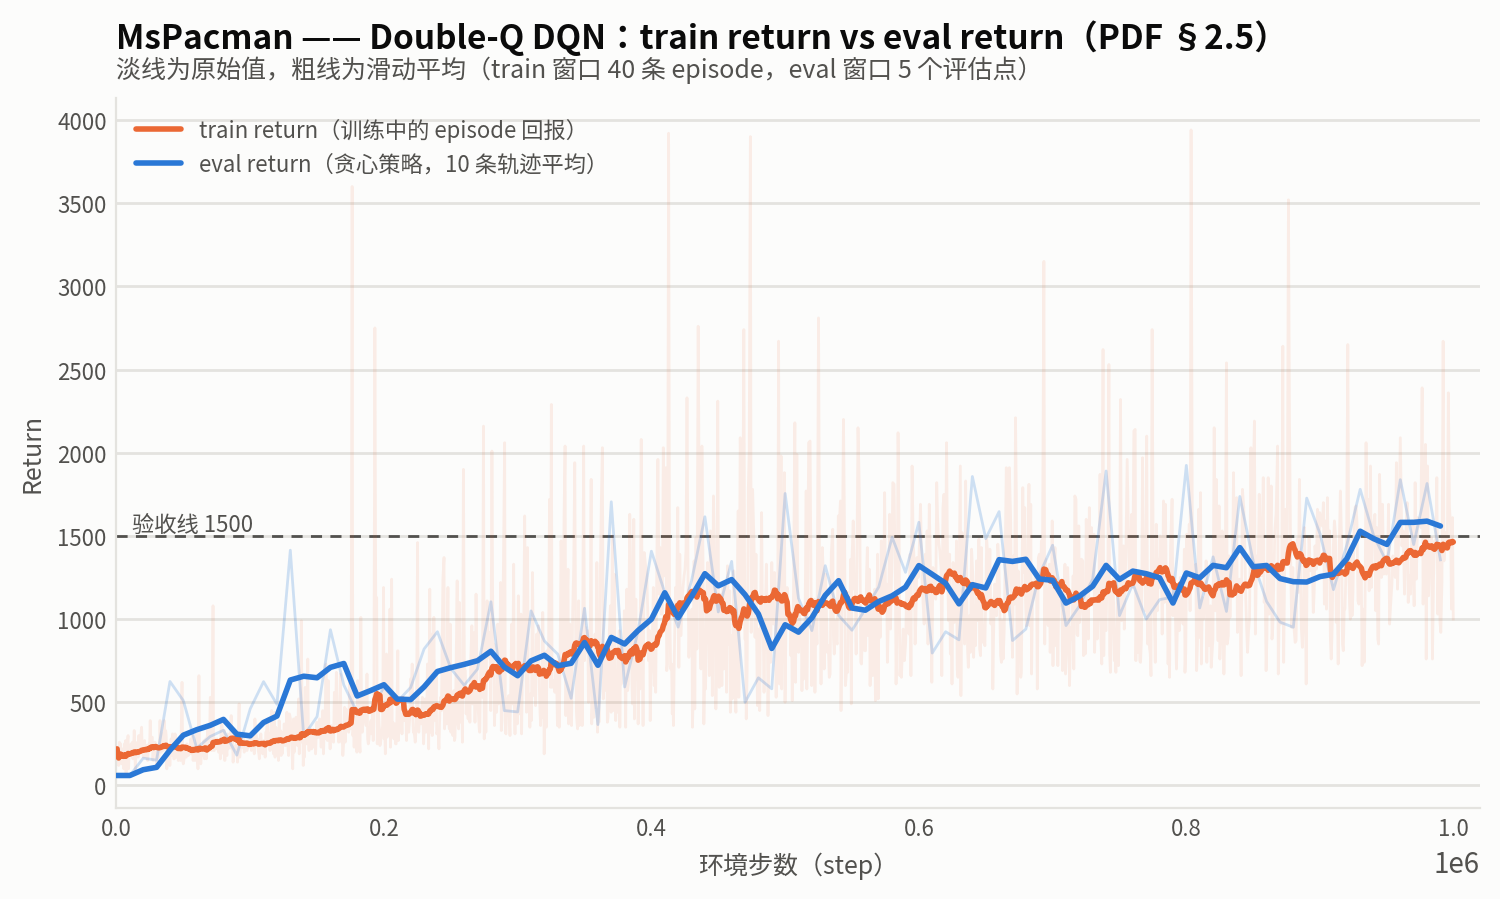
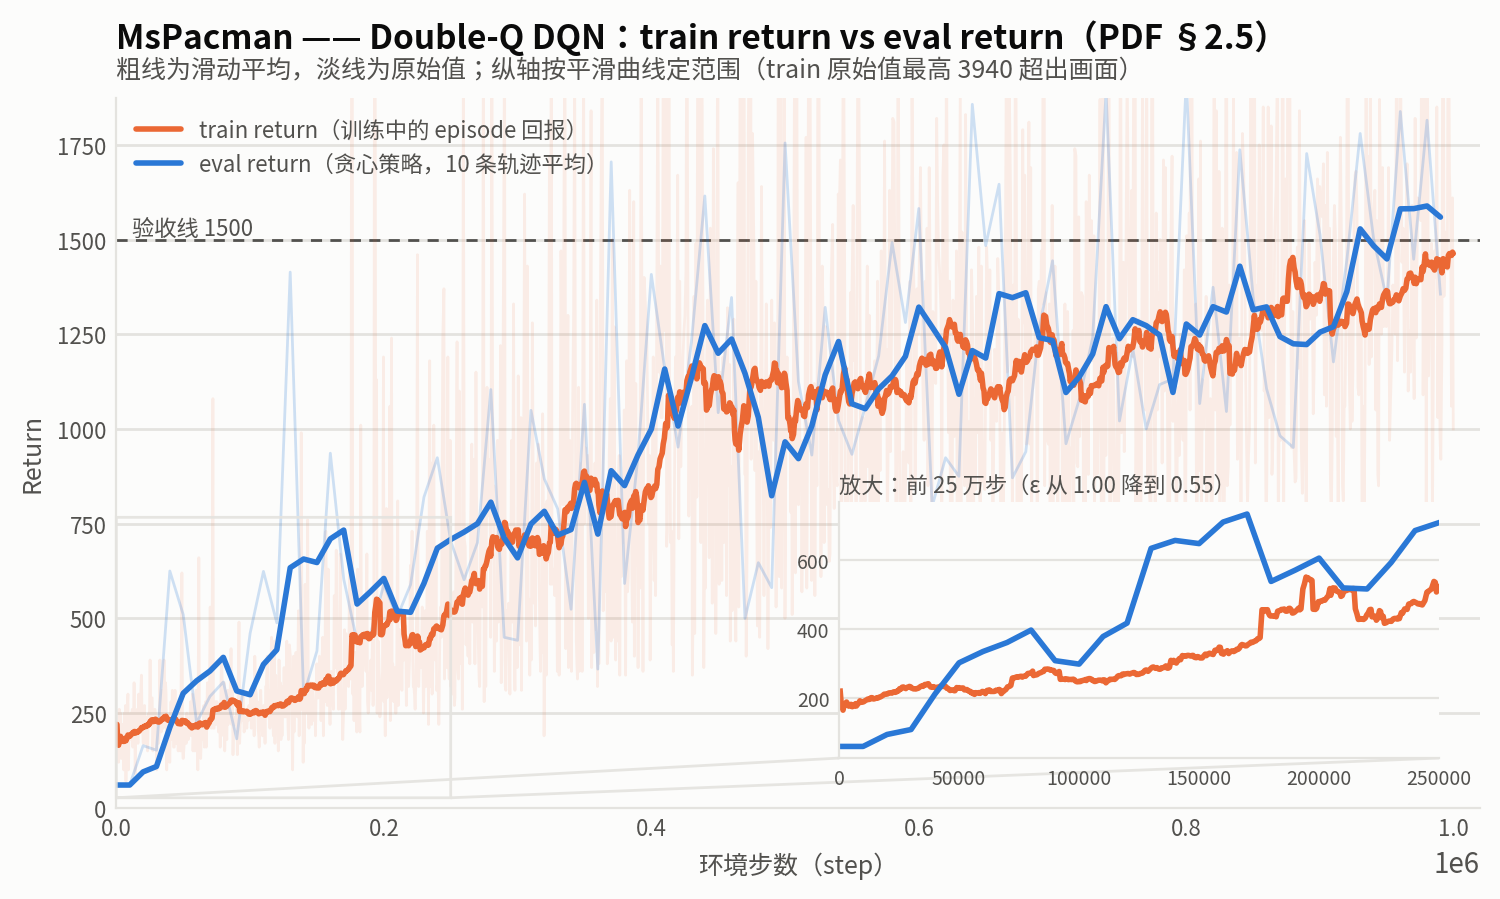
修复: MsPacman 图把 PDF 要看的早期差异压扁了，并补上 eval 策略退化的直接证据
图的问题：纵轴被 train 的原始尖峰（最高 3940）撑到 4000，于是 step 5 万处
train 240 / eval 510 这个 2.1 倍的差距只占纵向 7%，看上去「差异不显著」——
而 PDF §2.5 问的恰恰是「they look very different early in training, explain the difference」。
图没能支撑要论证的结论。

两处修正：纵轴改按平滑曲线的范围定（原始尖峰因此超出画面，副标题写明，不是静默裁剪）；
加一个前 25 万步的放大插图，那段 ε 从 1.00 降到 0.55，是差异最大的区间。
插图里 17 万步处 eval 780 / train 450 一目了然。

REPORT 里补的证据比原来的说法硬得多：日志显示 step 0 和 step 10,000 的
Eval_Min = Eval_Max = Eval_Avg = 60 —— 10 条评估轨迹回报一个不差。若策略含随机性，
10 次不可能同分，何况 Atari 还有 noop_max=30 的随机起手让初始状态都不同。
这证明「随机的是网络参数，不是策略」：对随机初始化的网络取 argmax 得到的是
确定性但任意的策略，不管看到什么都输出同一个动作、每次以同样方式死掉，
比均匀随机（211）还差。

step 20,000 突然开始波动也有确切原因：learning_starts=20000，而 run_dqn.py:129
的门槛是 step >= learning_starts —— 在此之前 Q 网络一次梯度更新都没做过。

Claude-Session: https://claude.ai/code/session_01WaXgVs3YaaamgBb57v22Ck

diff --git a/hw3/plot_results.py b/hw3/plot_results.py
@@ -126,6 +126,11 @@ def plot_train_vs_eval(prefix, title, subtitle, outfile, threshold, smooth_w=40)
                 solid_joinstyle="round", solid_capstyle="round")
 
     ax.set_xlim(0, max(x_e[-1], x_t[-1]) * 1.02)
+    # y 轴按【平滑后】的范围定，不让 train 的原始尖峰（最高 3940）把纵轴撑到 4000 ——
+    # 那会把 PDF 要看的早期差异压成一条缝。原始尖峰因此会被裁掉，副标题里写明。
+    lo = min(min(smooth(y_t, smooth_w)), min(smooth(y_e, 5)))
+    hi = max(max(smooth(y_t, smooth_w)), max(smooth(y_e, 5)))
+    ax.set_ylim(min(0, lo), hi * 1.18)
     ax.set_title(title, fontsize=12, color=INK, loc="left", pad=18, fontweight="bold")
     ax.text(0, 1.02, subtitle, transform=ax.transAxes, fontsize=9, color=INK2, va="bottom")
     ax.set_xlabel("环境步数（step）", fontsize=9, color=INK2)
@@ -136,6 +141,23 @@ def plot_train_vs_eval(prefix, title, subtitle, outfile, threshold, smooth_w=40)
     ax.tick_params(colors=INK2, labelsize=8, length=0)
     # 两条序列 ⇒ legend 必须有（dataviz 规则：身份不能只靠颜色）
     ax.legend(frameon=False, fontsize=8, labelcolor=INK2, loc="upper left")
+
+    # PDF 问的是【早期】差异，但早期在全程尺度上被压扁。放大 0~25 万步这一段。
+    zoom = 250_000
+    ins = ax.inset_axes([0.53, 0.07, 0.44, 0.36])
+    ins.set_facecolor(SURFACE)
+    for (x, y, c, w) in ((x_t, y_t, SERIES[1], smooth_w), (x_e, y_e, SERIES[0], 5)):
+        ys = smooth(y, w)
+        xs = [a for a in x if a <= zoom]
+        ins.plot(xs, ys[:len(xs)], color=c, lw=2)
+    ins.set_xlim(0, zoom)
+    ins.grid(axis="y", color=GRID, lw=0.8); ins.set_axisbelow(True)
+    for sp in ("top", "right"): ins.spines[sp].set_visible(False)
+    for sp in ("left", "bottom"): ins.spines[sp].set_color(GRID)
+    ins.tick_params(colors=INK2, labelsize=7, length=0)
+    ins.set_title("放大：前 25 万步（ε 从 1.00 降到 0.55）", fontsize=8, color=INK2,
+                  loc="left", pad=4)
+    ax.indicate_inset_zoom(ins, edgecolor=GRID, alpha=0.9)
     fig.tight_layout()
     os.makedirs("report", exist_ok=True)
     fig.savefig(os.path.join("report", outfile), facecolor=SURFACE, bbox_inches="tight")
@@ -157,7 +179,7 @@ if __name__ == "__main__":
     elif which == "stage2-mspacman":
         plot_train_vs_eval("MsPacman_dqn",
              "MsPacman —— Double-Q DQN：train return vs eval return（PDF §2.5）",
-             "淡线为原始值，粗线为滑动平均（train 窗口 40 条 episode，eval 窗口 5 个评估点）",
+             "粗线为滑动平均，淡线为原始值；纵轴按平滑曲线定范围（train 原始值最高 3940 超出画面）",
              "stage2_mspacman.png", threshold=1500)
     else:
         raise SystemExit(f"未知阶段：{which}")

diff --git a/hw3/REPORT.md b/hw3/REPORT.md
@@ -124,10 +124,28 @@ Atari 的 ε 调度是「前 20,000 步保持 1.0，然后线性降到 50 万步
 
 另外两个次要因素：
 
-1. **step 0 处 eval 反而更低（60 vs 211）。** 此时 Q 网络是随机初始化的，
-   「对随机网络取 argmax」是一个**退化的确定性策略** —— 相似状态永远选同一个动作，
-   在 MsPacman 里比均匀随机还差（后者至少会到处走动）。
-   这一点也说明 eval 并非天然更高，它只是不用交探索税。
+1. **step 0 处 eval 反而更低（60 vs 211）。** 此时 Q 网络是随机初始化的。
+   注意区分：随机的是**网络参数**，不是**策略** —— 「对随机网络取 argmax」得到的是一个
+   **确定性但任意**的策略，相似状态永远选同一个动作。在 MsPacman 里它比均匀随机还差
+   （后者至少会到处走动）。
+
+   日志里有直接证据：
+
+   | step | Eval_Avg | Eval_Min | Eval_Max |
+   |---|---|---|---|
+   | 0 | 60 | **60** | **60** |
+   | 10,000 | 60 | **60** | **60** |
+   | 20,000 | 164 | 110 | 330 |
+
+   **前两个评估点的 10 条轨迹回报一个不差全是 60**，min = max = avg。
+   若策略含随机性，10 次不可能同分 —— 何况 Atari 还有 `noop_max=30` 的随机起手，
+   连初始状态都不相同。这个策略退化到了「不管看到什么都输出同一个动作、每次以同样方式死掉」。
+
+   step 20,000 突然开始波动也有确切原因：`learning_starts=20000`，而 `run_dqn.py:129`
+   的门槛是 `step >= learning_starts`。**在此之前 Q 网络一次梯度更新都没做过**，
+   两次评估自然给出完全相同的结果。
+
+   所以 eval 并非天然更高；它只是不用交探索税。早期它甚至输给随机策略。
 2. **统计口径不同。** eval 是 10 条轨迹的平均，train 是**单条 episode** 的回报，
    噪声大得多；而且 train return 在 episode **结束时**才记录，
    一条长 episode 的回报反映的是它**开始时**的策略，天然滞后。
